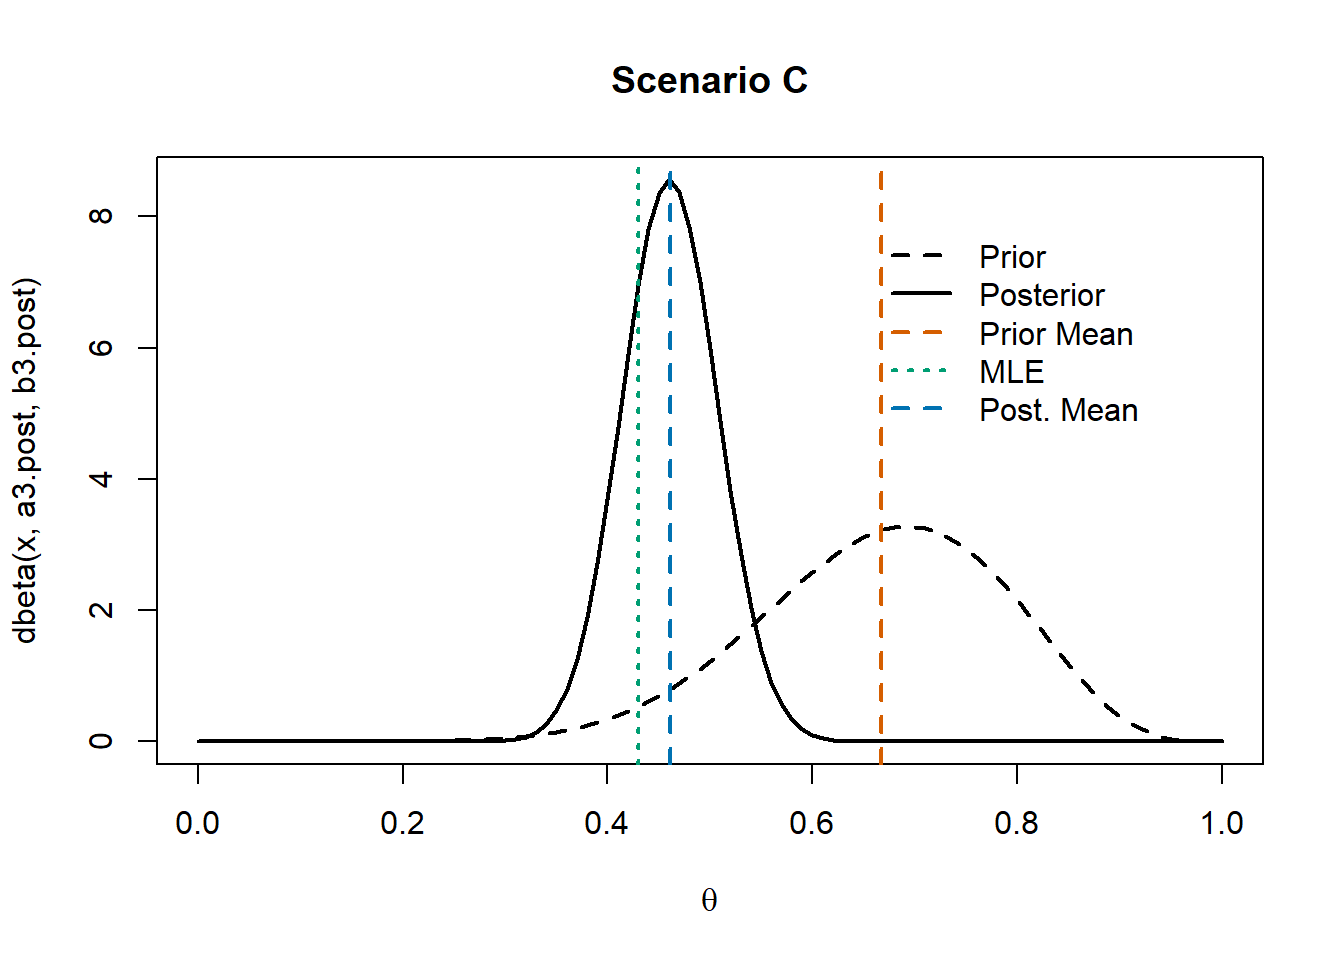
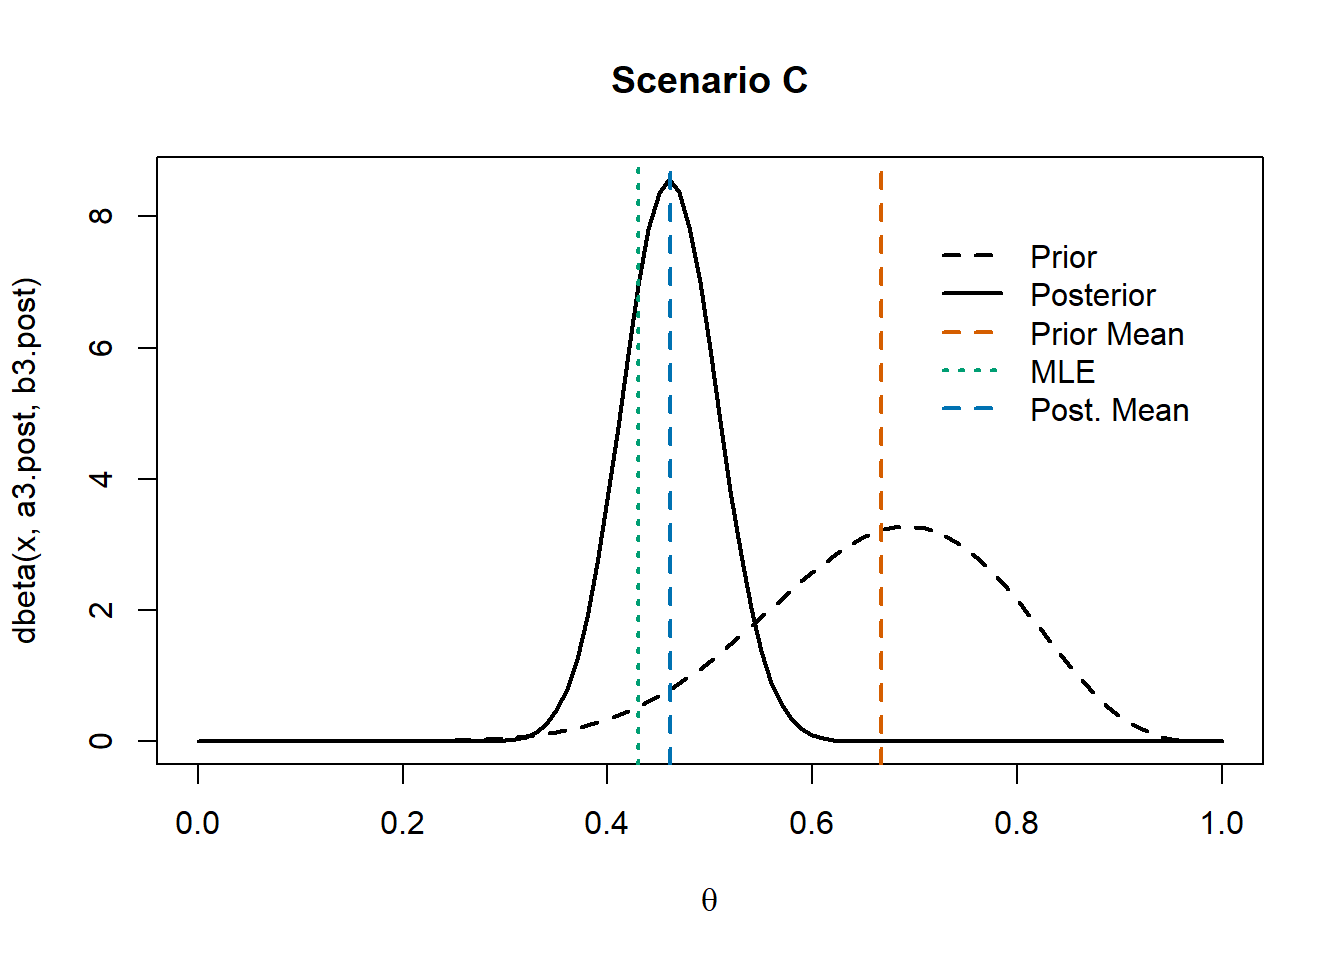
Update

Changed region(s): [[0.6562, 0.25, 0.9062, 0.4375]]

diff --git a/docs/Script1.html b/docs/Script1.html
@@ -403,7 +403,7 @@ window.Quarto = {
 <span id="cb29-8"><a href="#cb29-8" aria-hidden="true" tabindex="-1"></a><span class="fu">abline</span>(<span class="at">v=</span>a3<span class="sc">/</span>(a3<span class="sc">+</span>b3), <span class="at">col=</span><span class="st">"#D55E00"</span>, <span class="at">lty=</span><span class="st">"dashed"</span>, <span class="at">lwd=</span><span class="dv">2</span>)</span>
 <span id="cb29-9"><a href="#cb29-9" aria-hidden="true" tabindex="-1"></a><span class="fu">abline</span>(<span class="at">v=</span><span class="fu">mean</span>(y), <span class="at">col=</span><span class="st">"#009E73"</span>, <span class="at">lty=</span><span class="st">"dotted"</span>, <span class="at">lwd=</span><span class="dv">2</span>)</span>
 <span id="cb29-10"><a href="#cb29-10" aria-hidden="true" tabindex="-1"></a><span class="fu">abline</span>(<span class="at">v=</span>a3.post<span class="sc">/</span>(a3.post<span class="sc">+</span>b3.post), <span class="at">col=</span><span class="st">"#0072B2"</span>, <span class="at">lty=</span><span class="st">"dashed"</span>, <span class="at">lwd=</span><span class="dv">2</span>)</span>
-<span id="cb29-11"><a href="#cb29-11" aria-hidden="true" tabindex="-1"></a><span class="fu">legend</span>(.<span class="dv">65</span>,<span class="dv">8</span>, <span class="fu">c</span>(<span class="st">"Prior"</span>, <span class="st">"Posterior"</span>, <span class="st">"Prior Mean"</span>, <span class="st">"MLE"</span>, <span class="st">"Post. Mean"</span>), <span class="at">lwd=</span><span class="dv">2</span>,</span>
+<span id="cb29-11"><a href="#cb29-11" aria-hidden="true" tabindex="-1"></a><span class="fu">legend</span>(.<span class="dv">7</span>,<span class="dv">8</span>, <span class="fu">c</span>(<span class="st">"Prior"</span>, <span class="st">"Posterior"</span>, <span class="st">"Prior Mean"</span>, <span class="st">"MLE"</span>, <span class="st">"Post. Mean"</span>), <span class="at">lwd=</span><span class="dv">2</span>,</span>
 <span id="cb29-12"><a href="#cb29-12" aria-hidden="true" tabindex="-1"></a>       <span class="at">col=</span><span class="fu">c</span>(<span class="st">"black"</span>, <span class="st">"black"</span>, <span class="st">"#D55E00"</span>, <span class="st">"#009E73"</span>, <span class="st">"#0072B2"</span>), <span class="at">lty=</span><span class="fu">c</span>(<span class="dv">2</span>,<span class="dv">1</span>,<span class="dv">2</span>,<span class="dv">3</span>,<span class="dv">2</span>), <span class="at">bty=</span><span class="st">"n"</span>)</span></code><button title="Copy to Clipboard" class="code-copy-button"><i class="bi"></i></button></pre></div>
 <div class="cell-output-display">
 <div>
